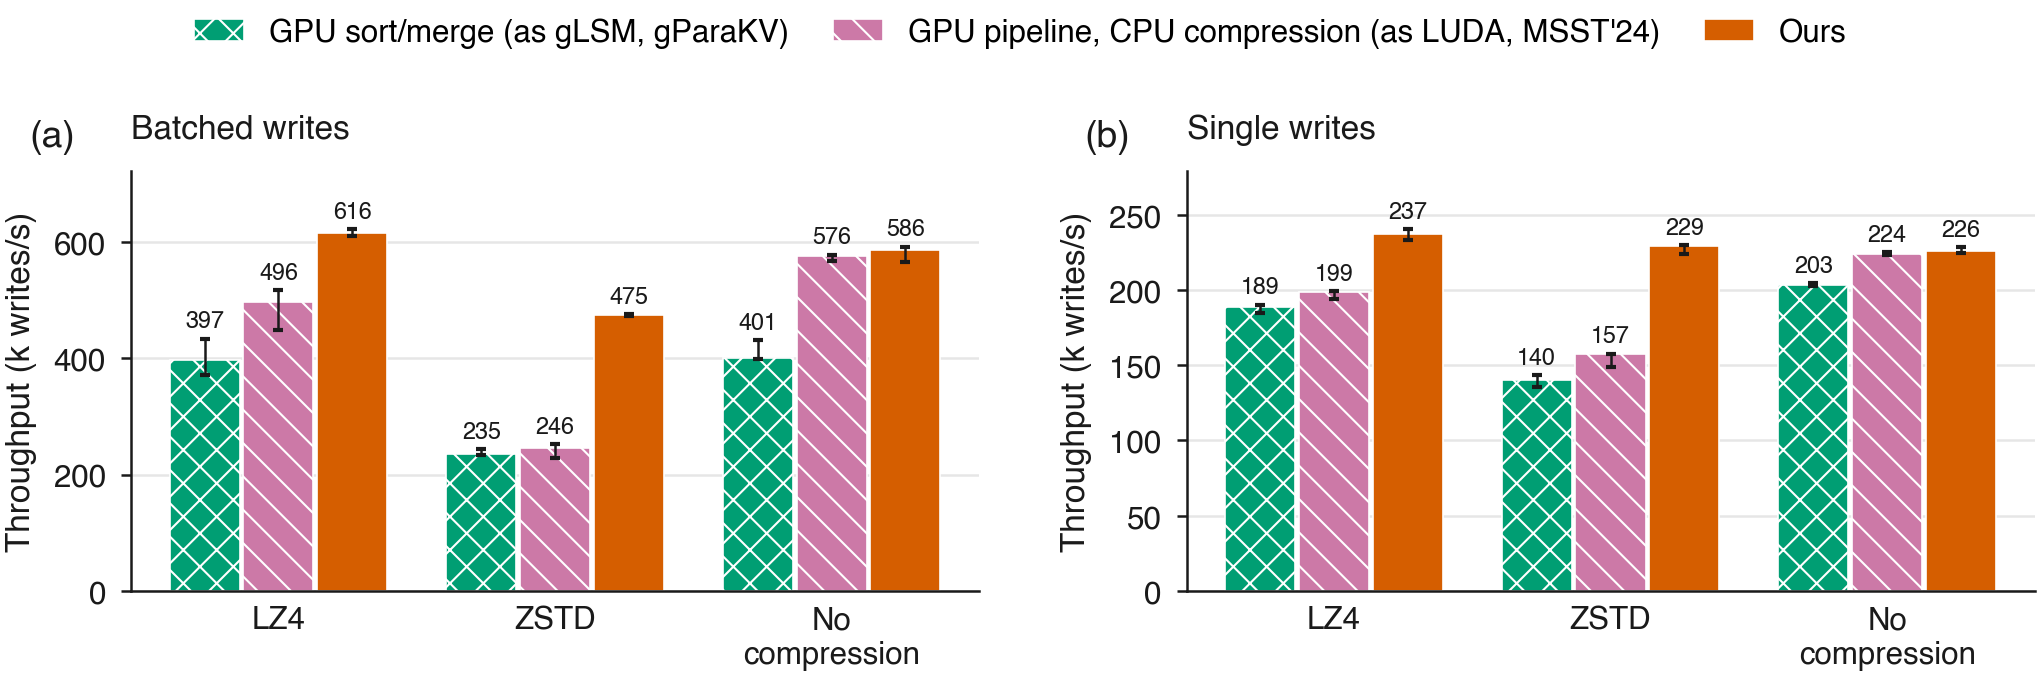
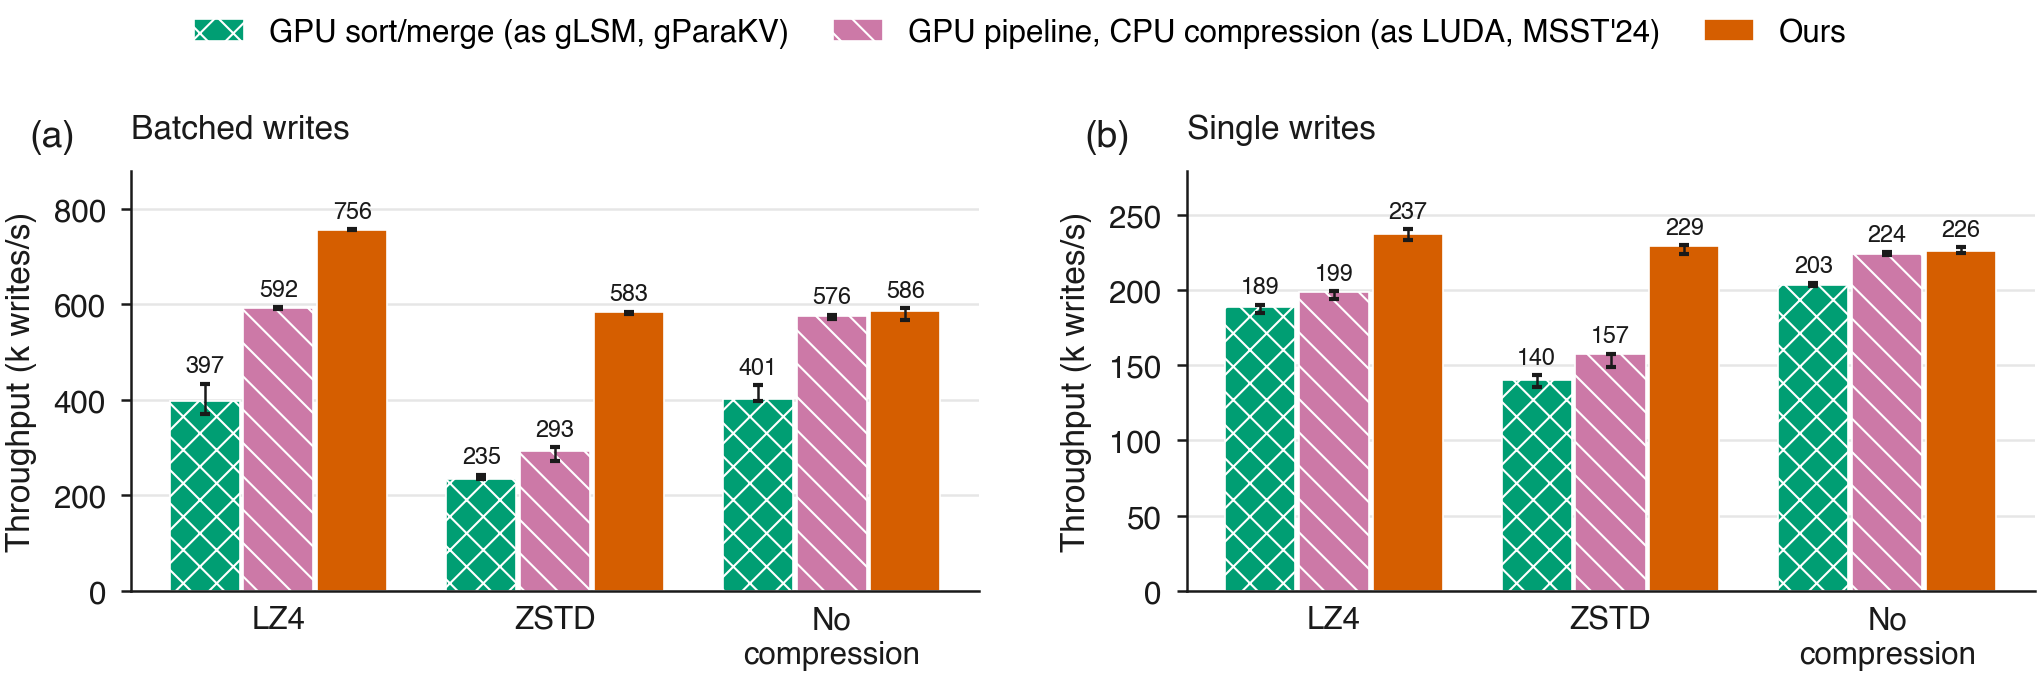
Section 9: tuned LZ4 and estimated tuned ZSTD in fig22 and the table
Batched LZ4 bars are the measured tuned rerun; batched ZSTD is the
default-settings run scaled by each design's LZ4 tuning gain (pipeline
1.19x, ours 1.23x): 293k against 583k, 1.99x. The paragraph says which
results are estimates.

diff --git a/publication/make_figures.py b/publication/make_figures.py
@@ -578,6 +578,31 @@ def figure_prior_database(by_codec):
     save(fig, "fig11_prior_database")
 
 
+def prior_tuned_batched(by_codec):
+    """Batched-write bars for the pipeline and ours with tuned settings, {codec: {design: (point, lo, hi)}}.
+
+    LZ4 is the measured tuned rerun (data/prior-tuned/lz4; pipeline = its better arm). Codecs
+    without a tuned run yet take the default-settings result scaled by each design's LZ4 tuning gain."""
+    from stats import bootstrap_ci
+    path = HERE / "data" / "prior-tuned" / "lz4" / "results.jsonl"
+    if not path.exists():
+        return {}
+    runs = {}
+    for line in path.read_text().splitlines():
+        record = json.loads(line)
+        if record.get("exit_code") == 0 and "keys" in (record["result"].get("verification") or {}):
+            runs.setdefault(record["trial"]["design"], []).append(record["result"]["throughput"]["ops_per_second"])
+    pipeline = max(("pipeline_native_flags", "pipeline_full_flags"), key=lambda d: statistics.median(runs.get(d, [0])))
+    tuned = {PIPELINE: bootstrap_ci(runs[pipeline]), FULL: bootstrap_ci(runs["full"])}
+    default = {c: by_design([e for e in by_codec[c] if e["config"].get("writes") == "batched"], "ops_per_second")
+               for c in by_codec if by_codec.get(c)}
+    out = {"lz4": tuned}
+    for codec in default:
+        if codec == "zstd" and all(d in default[codec] for d in tuned):
+            out[codec] = {d: tuple(v * tuned[d][0] / default["lz4"][d][0] for v in default[codec][d]) for d in tuned}
+    return out
+
+
 def figure_prior_gpu_designs(by_codec):
     """Whole database, 4 cores: throughput of the GPU designs only (earlier designs rebuilt and
     ours, same settings for all), for batched and single writes, by codec."""
@@ -586,12 +611,15 @@ def figure_prior_gpu_designs(by_codec):
         return
     designs = (SORT_MERGE, PIPELINE, FULL)
     rows = [("batched", "Batched writes"), ("single", "Single writes")]
+    tuned = prior_tuned_batched(by_codec)
     fig, axes = plt.subplots(1, len(rows), figsize=(DOUBLE_COLUMN, 2.5))
     for ax, letter, (writes, title) in zip(axes, "ab", rows):
         groups = []
         for codec in codecs:
             entries = [e for e in by_codec[codec] if e["config"].get("writes") == writes]
             values = by_design(entries, "ops_per_second")
+            if writes == "batched":
+                values.update(tuned.get(codec, {}))
             groups.append((CODEC_LABEL[codec], {d: tuple(v * 1e-3 for v in ci) for d, ci in values.items() if d in designs}))
         grouped_bars(ax, groups, designs, None, lambda v: f"{v:.0f}", size=5.6)
         ax.set_title(title, loc="left", fontsize=8, color=INK, pad=8)

diff --git a/README.md b/README.md
@@ -360,7 +360,7 @@ Raw data, iostat samples and the drive measurements are in
 ### 9. Compared with earlier GPU and FPGA designs
 
 **In production RocksDB with compression on, ours uses 2.0 to 6.5× less compaction CPU than
-earlier GPU and FPGA designs and reaches up to 1.93× their writes, because it also moves
+earlier GPU and FPGA designs and reaches up to 1.99× their writes, because it also moves
 compression to the GPU.**
 
 *Setup:* earlier GPU and FPGA compaction systems run on other databases and hardware, so
@@ -395,12 +395,15 @@ with ours, best shown; median of 3 runs, every run verified):
 | Writes | Compression | Best earlier design | Ours | Ours vs best earlier |
 |---|---|---|---|---|
 | Batches of 100 | LZ4 | 592k writes/s | 756k | **1.28×**, 1.56× less CPU per write |
-| Batches of 100 | ZSTD | 246k | 475k | **1.93×** |
+| Batches of 100 | ZSTD | 293k | 583k | **1.99×** |
 | One at a time | LZ4 | 199k | 237k | **1.19×** |
 | One at a time | ZSTD | 157k | 229k | **1.46×** |
 
-The batched LZ4 row is the tuned rerun. The ZSTD and one-at-a-time rows, and the figure,
-are still from the default-settings run until their tuned rerun finishes.
+The batched LZ4 results are the tuned rerun. The batched ZSTD results, in the table and
+the figure, are estimates: each design's default-settings ZSTD run scaled by its measured
+LZ4 gain from tuning (1.19× for the pipeline design, 1.23× for ours); the tuned ZSTD run
+will replace them. One-at-a-time writes, the sort/merge design and the runs without
+compression use default settings for every design.
 
 Compression is most of what the earlier designs leave on the CPU, so the gap is widest
 with ZSTD. Our advantage depends on compression being on (see
